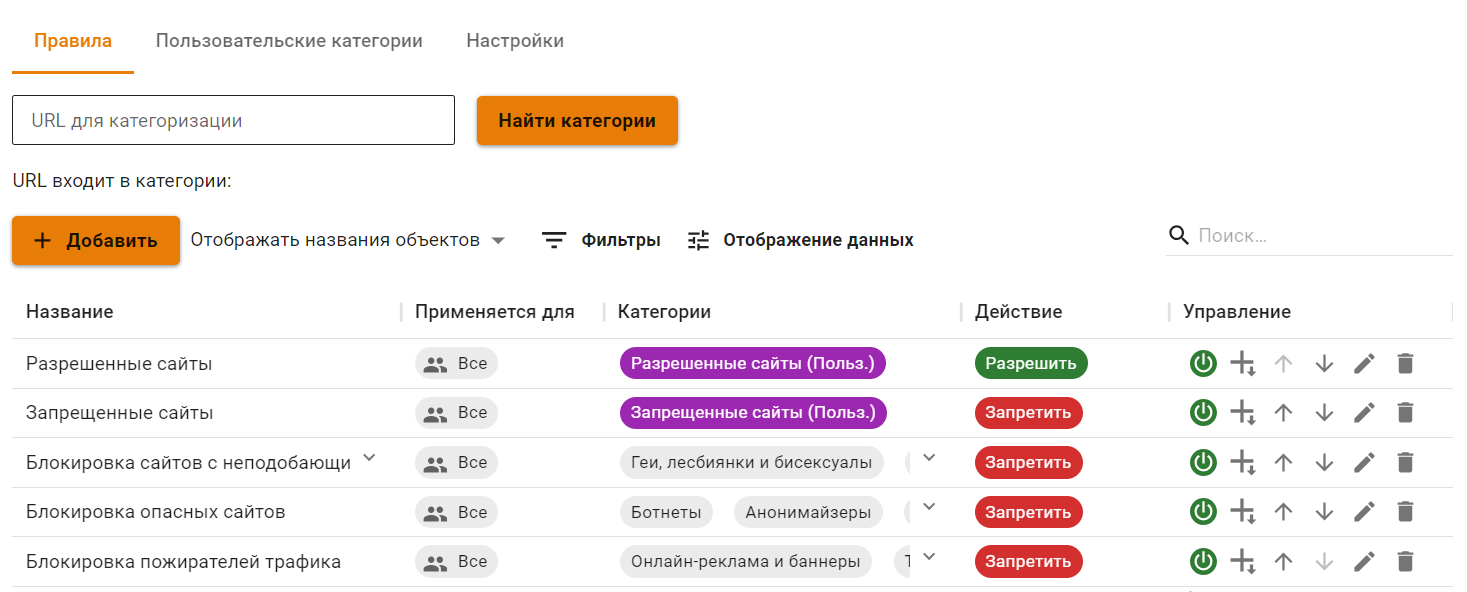
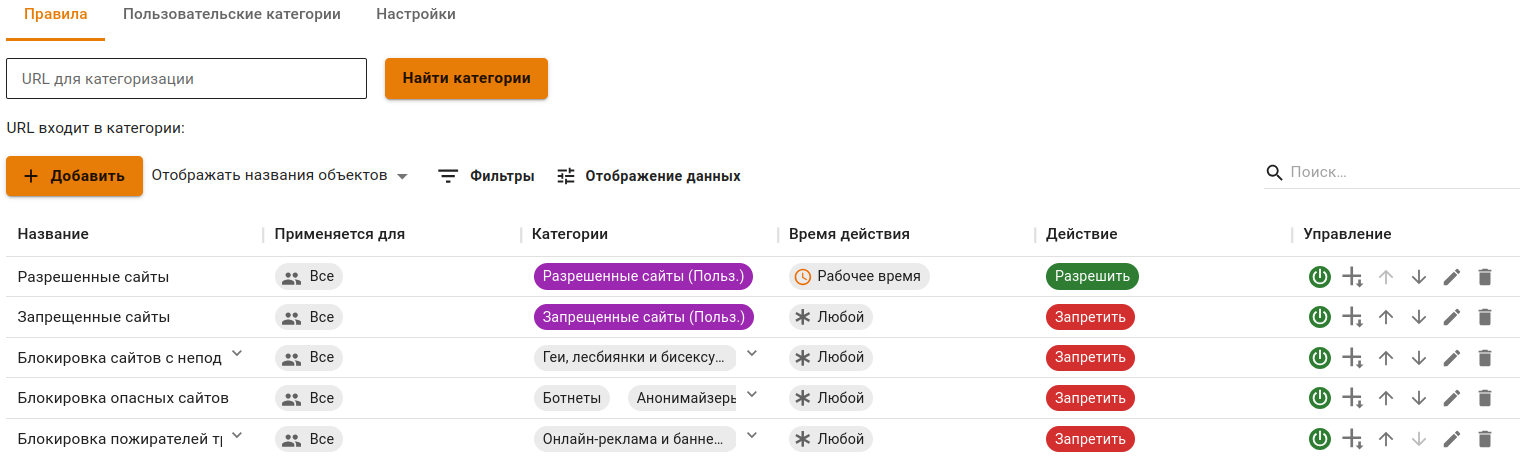
ICS-32800 УТМ. Дополнить ст-ю Контент-фильтр

diff --git a/settings/access-rules/content-filter/README.md b/settings/access-rules/content-filter/README.md
@@ -11,7 +11,7 @@ description: Контентная фильтрация реализована н
 Для записи логов поставьте флаг строке **Включить журналирование** в разделе **Сервисы -> Прокси -> Основное**.
 {% endhint %}
 
-Механизм контентной фильтрации работает по принципу проверки принадлежности адреса, запрашиваемого пользователем сайта или отдельной страницы сайта, на наличие его в списках запрещенных ресурсов. Списки поделены на категории для удобства администрирования.
+Механизм контентной фильтрации работает по принципу проверки принадлежности адреса сайта на наличие в списках запрещенных ресурсов. Списки поделены на категории для удобства администрирования.
 
 {% hint style="info" %}
 HTTPS-сайты без расшифровки трафика фильтруются только по домену (а не по полному URL), правила категории **Файлы** на них также применить невозможно. Для полной фильтрации HTTPS создайте правила расшифровки HTTPS-трафика нужных категорий.
@@ -24,8 +24,8 @@ HTTPS-сайты без расшифровки трафика фильтруют
 Вкладка содержит:
 
 * **Строку поиска категории URL для категоризации**. Позволяет по URL найти категорию, в которой этот URL состоит, для дальнейшего создания правила; 
-* **Таблицу созданных правил**. Правила в таблице действуют сверху вниз. То есть, если вверху расположено правило, разрешающее контент, а внизу запрещающее этот контент, то будет работать только верхнее правило. Для перемещения правил используйте стрелки ![](/.gitbook/assets/icon-up.png) и ![](/.gitbook/assets/icon-down.png);
-* **Возможность добавления правил в Контент-фильтр.** При добавлении правила требуется заполнить название правила, указать, для кого оно будет применено, и выбрать категорию сайтов. Далее указать, какое действие будет выполняться. Если выбрать действие **Перенаправить на**, то нужно создать аналогичное правило с действием **Расшифровать** и поместить его выше перенаправляющего правила.
+* **Таблицу созданных правил**. Правила в таблице действуют сверху вниз. То есть, если вверху расположено правило, разрешающее контент, а внизу - запрещающее этот контент, то будет работать только верхнее правило. Для перемещения правил используйте стрелки ![](/.gitbook/assets/icon-up.png) и ![](/.gitbook/assets/icon-down.png);
+* **Возможность добавления правил в Контент-фильтр.** При добавлении правила требуется заполнить название правила, указать, для кого оно будет применено, выбрать категорию сайтов и указать время действия правила. Далее указать, какое действие будет выполняться. Если выбрать действие **Перенаправить на**, то нужно создать аналогичное правило с действием **Расшифровать** и поместить его выше перенаправляющего правила.
 
 ![](/.gitbook/assets/kf-r.png)
 
